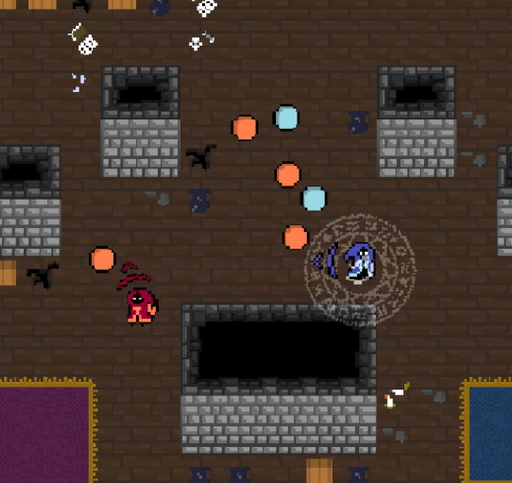
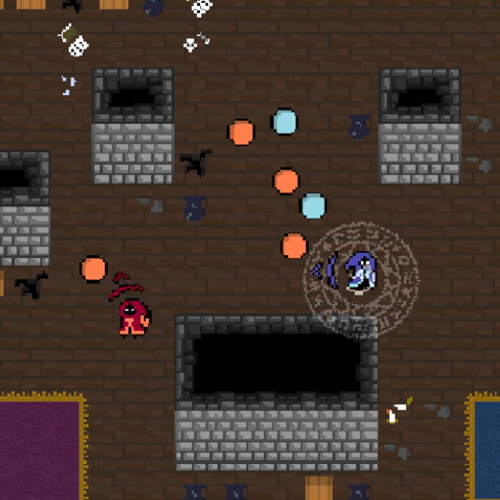
Add terraria site to projects

diff --git a/characters.html b/characters.html
@@ -10,8 +10,8 @@
         <link rel="icon" type="image/x-icon" href="assets/images/favicon.png">
 
         <meta charset="UTF-8">
-        <meta name="description" content="Mossy's [] webpage">
-        <meta name="keywords" content="Mossy">
+        <meta name="description" content="Mossy's characters webpage">
+        <meta name="keywords" content="Mossy Character DND Dungeons Dragons Tiefling Aarakocra Rakshasa">
         <meta name="author" content="Mossy Jimmerson">
     </head>
 
@@ -49,15 +49,15 @@
                                     <tr>
                                         <td>
                                             <img src="assets/images/characters/ecstasy/ecstasy portrait1.png" alt="Ecstasy's portrait" width="400px">
-                                            <figcaption>Art by <a href="https://oneinanillionartist.carrd.co">Nexanillion</a></figcaption>
+                                            <figcaption>Art by <a href="https://oneinanillionartist.carrd.co" target="_blank">Nexanillion</a></figcaption>
                                         </td>
                                         <td>
                                             <p>Ecstasy (he/they) is a transmasc tiefling with pitch black eyes, a trait shared amongst most Cepheus family members. He was the older of his identical twin sister, one twin is born with a sun birthmark (him), the other with a moon birthmark (his sister).</p>
                                             <p>The Cepheus family is cursed to always and only have 2 twins, each marked by their respective celestial body. The sun child is destined to inherit the power and fortune of the family, and for the past hundred generations, this has been the case.</p>
                                             <p>X was born with the sun birthmark, but never wanted to become the head of the family, so he ran away before his 18th birthday, met a hag, and traded his valuable name for fame and power.</p>
                                             <p>He took on his stage name, Ecstasy, and went on to become one of the most popular artists of his time, known throughout the planescape for his punk rock music.</p>
-                                            <a href="https://www.dndbeyond.com/characters/93174562/MhX0JE">Character Sheet</a>
-                                            <a href="https://open.spotify.com/playlist/7HiTo0TMkKBRKOUeqnxx58?si=54261d11539b4a75">Discography</a>
+                                            <a href="https://www.dndbeyond.com/characters/93174562/MhX0JE" target="_blank">Character Sheet</a>
+                                            <a href="https://open.spotify.com/playlist/7HiTo0TMkKBRKOUeqnxx58?si=54261d11539b4a75" target="_blank">Discography</a>
                                         </td>
                                     </tr>
                                     <tr>
@@ -68,7 +68,7 @@
                                                     <tr>
                                                         <td>
                                                             <img src="assets/images/characters/ecstasy/ecstasy fullbody1.png" alt="Fullbody art of Ecstasy" width="300px">
-                                                            <figcaption>Art by <a href="https://oneinanillionartist.carrd.co">Nexanillion</a></figcaption>
+                                                            <figcaption>Art by <a href="https://oneinanillionartist.carrd.co" target="_blank">Nexanillion</a></figcaption>
                                                         </td>
                                                         <td>
                                                             <p>This piece is a scene from the campaign, where X put on an impromptu concert to distract the enemies while the rest of the party planted bombs in their headquarters.</p>
@@ -78,7 +78,7 @@
                                                     <tr>
                                                         <td>
                                                             <p>This is art of what his guitar and magic look like. He has an electric wisp familiar powering it, so he doesn't need to carry around an amp or speakers to be heard.</p>
-                                                            <p>The guitar itself is a reflavored <a href="https://dnd5e.wikidot.com/wondrous-items:lyre-of-building">Lyre of Building</a>, which has been been used extensively in the DND campaign he's from.</p>
+                                                            <p>The guitar itself is a reflavored <a href="https://dnd5e.wikidot.com/wondrous-items:lyre-of-building" target="_blank">Lyre of Building</a>, which has been been used extensively in the DND campaign he's from, mostly to prevent damage to structures and weapons, excavate tunnels, and create statues of fallen party members.</p>
                                                             <p>The deal with the hag gave him incredibly potent fey magic, which is reflected in the pinks and blues of his magic. This magic manifests mostly in his bard class, he's specifically a college of glamour bard.</p>
                                                         </td>
                                                         <td>
@@ -102,13 +102,13 @@
                                     <tr>
                                         <td>
                                             <img src="assets/images/characters/nokia/nokia portrait1.png" alt="Nokia's portrait" width="400px">
-                                            <figcaption>Art by <a href="https://drag0natlas.tumblr.com">Drag0natlas</a></figcaption>
+                                            <figcaption>Art by <a href="https://drag0natlas.tumblr.com" target="_blank">Drag0natlas</a></figcaption>
                                         </td>
                                         <td>
                                             <p>Nokia (any/all) is an aarakocra (bird-person) bard/artificer that specializes in alchemy and acid/poison based magic. He's a mischevious grafiti artist and often uses his ability of flight to put art in hard to reach/clean places.</p>
                                             <p>He's a college of creation bard, with his signature paint-stained waistpiece, which is a stolen noble's silk. He also sports a celestial patterned cloth over his left shoulder to honor a fallen party member.</p>
                                             <p>Due to extensive exposure to loud noises/explosions, he develops hearing loss that eventually becomes full deafness. He later learns sign langauge and utilizes telepathy to communicate with others.</p>
-                                            <a href="https://www.dndbeyond.com/characters/52295570/n9qec6">Character Sheet</a>
+                                            <a href="https://www.dndbeyond.com/characters/52295570/n9qec6" target="_blank">Character Sheet</a>
                                         </td>
                                     </tr>
                                     <tr>
@@ -119,27 +119,27 @@
                                                     <tr>
                                                         <td>
                                                             <img src="assets/images/characters/nokia/nokia fullbody1.png" alt="Fullbody art of Nokia" width="300px">
-                                                            <figcaption>Art by <a href="https://drag0natlas.tumblr.com">Drag0natlas</a></figcaption>
+                                                            <figcaption>Art by <a href="https://drag0natlas.tumblr.com" target="_blank">Drag0natlas</a></figcaption>
                                                         </td>
                                                         <td>
                                                             <img src="assets/images/characters/nokia/noika fullbody2.png" alt="Fullbody art of Nokia" width="300px">
-                                                            <figcaption>Art by <a href="https://autumnrunss.carrd.co">AutumnRunss</a></figcaption>
+                                                            <figcaption>Art by <a href="https://autumnrunss.carrd.co" target="_blank">AutumnRunss</a></figcaption>
                                                         </td>
                                                     </tr>
                                                     <tr>
                                                         <td>
                                                             <img src="assets/images/characters/nokia/nokia sketch1.jpg" alt="Sketch of Nokia" width="300px">
-                                                            <figcaption>Art by <a href="https://autumnrunss.carrd.co">AutumnRunss</a></figcaption>
+                                                            <figcaption>Art by <a href="https://autumnrunss.carrd.co" target="_blank">AutumnRunss</a></figcaption>
                                                         </td>
                                                         <td>
                                                             <img src="assets/images/characters/nokia/nokia sketch2.jpg" alt="Sketch of Nokia" width="300px">
-                                                            <figcaption>Art by <a href="https://autumnrunss.carrd.co">AutumnRunss</a></figcaption>
+                                                            <figcaption>Art by <a href="https://autumnrunss.carrd.co" target="_blank">AutumnRunss</a></figcaption>
                                                         </td>
                                                     </tr>
                                                     <tr>
                                                         <td colspan="2">
                                                             <img src="assets/images/characters/nokia/nokia sketch3.jpg" alt="Sketch of Nokia" width="300px">
-                                                            <figcaption>Art by <a href="https://autumnrunss.carrd.co">AutumnRunss</a></figcaption>
+                                                            <figcaption>Art by <a href="https://autumnrunss.carrd.co" target="_blank">AutumnRunss</a></figcaption>
                                                         </td>
                                                     </tr>
                                                 </table>
@@ -158,15 +158,15 @@
                                     <tr>
                                         <td>
                                             <img src="assets/images/characters/rithil/rithil portrait1.png" alt="Rithil's portrait" width="400px">
-                                            <figcaption>Art by <a href="https://oneinanillionartist.carrd.co">Nexanillion</a></figcaption>
+                                            <figcaption>Art by <a href="https://oneinanillionartist.carrd.co" target="_blank">Nexanillion</a></figcaption>
                                         </td>
                                         <td>
                                             <p>Rithil (he/it) is a rakshasa (reflavored kalashtar) wizard/cleric who discovers the lost art of dunamancy, time and space magic. While he has a level in arcane cleric, most of his abilities are connected to his wizard class.</p>
                                             <p>He used to be a powerful fiend in hell, like other rakshasas, before he met his future wife, an adventurer. He chose to give up his fiendish powers to live a life with her on the material plane.</p>
                                             <p>This was all well and good for many years, as they worked as magic item merchants after her adventuring ended, up until she died from a cursed artifact. Terrified of losing her, Rithil promises to find a way to bring her back, to which her last words were "Don't, I will wait for you."</p>
                                             <p>Overcome with grief, he studies dunamancy to try and turn back time to bring her back from the dead, but it may not work...</p>
-                                            <a href="https://www.dndbeyond.com/characters/139288985/JTNDjr">Character Sheet</a>
-                                            <a href="https://open.spotify.com/playlist/2FvSOOThfjwaVkQHCHw1CB?si=2e5a1883e412400a">Playlist</a>
+                                            <a href="https://www.dndbeyond.com/characters/139288985/JTNDjr" target="_blank">Character Sheet</a>
+                                            <a href="https://open.spotify.com/playlist/2FvSOOThfjwaVkQHCHw1CB?si=2e5a1883e412400a" target="_blank">Playlist</a>
                                         </td>
                                     </tr>
                                     <tr>
@@ -177,25 +177,25 @@
                                                     <tr>
                                                         <td>
                                                             <img src="assets/images/characters/rithil/rithil halfbody1.png" alt="Halfbody art of Rithil" width="300px">
-                                                            <figcaption>Art by <a href="https://oneinanillionartist.carrd.co">Nexanillion</a></figcaption>
+                                                            <figcaption>Art by <a href="https://oneinanillionartist.carrd.co" target="_blank">Nexanillion</a></figcaption>
                                                         </td>
                                                         <td>
-                                                            <p>Rithil's species, <a href="https://www.dndbeyond.com/monsters/16990-rakshasa">rakshasa</a>, are man-eating monsterous fiends from The Nine Hells. He did use to be one of these monsters, even still having the backwards wrists, a trademark of their species.</p>
+                                                            <p>Rithil's species, <a href="https://www.dndbeyond.com/monsters/16990-rakshasa" target="_blank">rakshasa</a>, are man-eating monsterous fiends from The Nine Hells. He did used to be one of these monsters, even still having the backwards wrists, a trademark of their species.</p>
                                                             <details>
                                                                 <summary>Spoilers for Rithil's arc</summary>
-                                                                <p>Rithil's attempt to resurrect his wife fails, as her soul is not willing to return. This breaks him and sends him over the edge, he spirals and regresses back into his evil ways</p>
-                                                                <p>He eventually becomes the BBEG of a campaign of mine, where he kills the goddess of magic to release spellcasting upon the material plane, as the lack of magic users when his wife died led to not being able to save her.</p>
+                                                                <p>Rithil's attempt to resurrect his wife fails, as her soul is not willing to return, rather choosing to wait in the afterlife for him to join her. This sends him over the edge, he spirals and regresses back into his evil ways from before they met.</p>
+                                                                <p>He eventually becomes the BBEG of a campaign of mine, where he kills the goddess of magic to release spellcasting upon the material plane, as he believes the lack of magic users when his wife died is what led to not being able to save her.</p>
                                                             </details>
                                                         </td>
                                                     </tr>
                                                     <tr>
                                                         <td>
                                                             <img src="assets/images/characters/rithil/rithil bust1.png" alt="Bust art of Rithil" width="300px">
-                                                            <figcaption>Art by <a href="https://oneinanillionartist.carrd.co">Nexanillion</a></figcaption>
+                                                            <figcaption>Art by <a href="https://oneinanillionartist.carrd.co" target="_blank">Nexanillion</a></figcaption>
                                                         </td>
                                                         <td>
                                                             <img src="assets/images/characters/rithil/rithil fullbody1.png" alt="Fullbody art of Rithil" width="300px">
-                                                            <figcaption>Art by <a href="https://drag0natlas.tumblr.com">Drag0natlas</a></figcaption>
+                                                            <figcaption>Art by <a href="https://drag0natlas.tumblr.com" target="_blank">Drag0natlas</a></figcaption>
                                                         </td>
                                                     </tr>
                                                 </table>
@@ -212,7 +212,7 @@
             <footer>
                 <div class="footer">
                     <h3><i>And the universe said "I love you"</i></h3>
-                    <h5>Webpage made by Mossy :]</h5>
+                    <h5>Webpage made by Mossy/Raine :]</h5>
                 </div>
             </footer>
         </div>    

diff --git a/work.html b/work.html
@@ -37,7 +37,7 @@
                     <tr>
                         <td class="mainContentBig">
                             <div class="window">
-                                <h1>~ Previous Projects ~</h1>
+                                <h1>~ Projects ~</h1>
                             </div>
                         </td>
                     </tr>
@@ -48,10 +48,12 @@
                                 <table>
                                     <tr>
                                         <td>
-                                            <a href="https://totallyandrea0.itch.io/witches-duel"><img src="assets/images/projects/witches duel/wd thumbnail.png" alt="Witches' Duel in-game screenshot" width="400px"></a>
+                                            <a href="https://totallyandrea0.itch.io/witches-duel" target="_blank"><img src="assets/images/projects/witches duel/wd thumbnail.png" alt="Witches' Duel in-game screenshot" width="400px"></a>
                                         </td>
                                         <td>
-                                            <p>My first game jam project, a couch PVP, bullet hell, shooter game themed around witchcraft and alchemy, made for the CSU GDC Spring Sprang Sprung Game Jam. I was the main artist. <a href="https://totallyandrea0.itch.io/witches-duel">[Link]</a></p>
+                                            <p>My first game jam project, a couch PVP bullet hell game themed around witchcraft and alchemy, made for the CSU GDC Spring Sprang Sprung Game Jam. I was the main artist and created most of the pixel art.</p>
+                                            <p>The game was made in Godot, a free and open-source game engine, and my personal favorite (I hate Unity, it's just endless loading screens).</p>
+                                            <p>It supports up to 4 players in local or online multiplayer, designed to be a good party game. Players begin by picking a perk, inspired by the major arcana of the tarot. Some perks give you quicker cooldowns, extra health, and more. Players may then choose up to 4 spells that are bound to the right and left buttons/triggers on a standard gamepad. Each spell is based on a different alchemical material, such as sulfur, iron, lead, blood, etc. <a href="https://totallyandrea0.itch.io/witches-duel" target="_blank">[Link]</a></p>
                                         </td>
                                     </tr>
                                     <tr>
@@ -101,13 +103,32 @@
                             </div>
                         </td>
                     </tr>
+                    <tr>
+                        <td class="mainContentBig">
+                            <div class="window">
+                                <h2>Terraria NPC Housing Tracker</h2>
+                                <table>
+                                    <tr>
+                                        <td>
+                                            <a href="https://mossmom.github.io/Terraria-NPC-Tracker/" target="_blank"><img src="assets\images\projects\terraria npc tracker\tnpct thumbnail.png" alt="Terraria NPC Housing Tracker webpage screenshot" width="400px"></a>
+                                        </td>
+                                        <td>
+                                            <p>A quick tool I made to track NPC housing requirements in Terraria. Specifically to be used while designing worlds and building NPC housing. I myself always wished there were a tool to track which NPCs I've built houses for and which ones I haven't yet. The in-game NPC tracker only shows if they have spawned, not if you've built them a special house. This tool exists to fill that gap.</p>
+                                            <p>A school project, it was made with HTML, CSS, and JavaScript. The NPC data is stored in a JSON file, which the JavaScript fetches and parses to generate the checklist on the webpage, depending on the user's selected sources, such as the Calamity or Thorium mod.</p>
+                                            <p>Over 85 NPCs across 7 sources can be tracked by this tool. And I plan on working on it more in the future, its planned updates are listed at the bottom of the page, feel free to leave feedback on its GitHub page! <a href="https://mossmom.github.io/Terraria-NPC-Tracker/" target="_blank">[Link]</a></p>
+                                        </td>
+                                    </tr>
+                                </table>
+                            </div>
+                        </td>
+                    </tr>
                 </table>
             </div>
 
             <footer>
                 <div class="footer">
                     <h3><i>And the universe said "I love you"</i></h3>
-                    <h5>Webpage made by Mossy :]</h5>
+                    <h5>Webpage made by Mossy/Raine :]</h5>
                 </div>
             </footer>
         </div>    

diff --git a/index.html b/index.html
@@ -38,20 +38,24 @@
                         <td class="sideBar">
                             <div class="window">
                                 <h3>Site Changelog...</h3>
+                                <p>05/18/26 - Added Terraria NPC Housing Tracker to projects.</p>
                                 <p>02/16/26 - Website ported to GitHub</p>
                                 <p>02/09/26 - Identity, Projects, & Character pages done</p>
-                                <p>02/02/26 - Site created</p>
+                                <details>
+                                    <summary>Older changes</summary>
+                                    <p>02/02/26 - Site created</p>
+                                </details>
                             </div>
                             <div class="window">
                                 <h3>Social Media:</h3>
                                 <img src="assets/images/insta icon.png" alt="Instagram icon" width="20px" class="inlinePic">
-                                Instagram: <a href="https://www.instagram.com/mossmom5646/">mossmom5646</a>
+                                Instagram: <a href="https://www.instagram.com/mossmom5646/" target="_blank">mossmom5646</a>
                                 <br>
                                 <img src="assets/images/discord icon.png" alt="Discord icon" width="20px" class="inlinePic">
                                 Discord: mossmom
                                 <br>
                                 <img src="assets/images/spotify icon.png" alt="Spotify icon" width="20px" class="inlinePic">
-                                Spotify: <a href="https://open.spotify.com/user/some-person930?si=d514a0a1548c4d06">mossy</a>
+                                Spotify: <a href="https://open.spotify.com/user/some-person930?si=d514a0a1548c4d06" target="_blank">mossy</a>
                                 <br>
                                 <br>
                             </div>
@@ -60,7 +64,7 @@
                             <div class="window">
                             <h2>Welcome to my website!</h2>
                             <p>
-                                My name is Mossy <a href="identity.html">(she/they)</a> and I am currently a computer science undergraduate student, with a minor in American Sign Langauge.
+                                My name is Mossy/Raine <a href="identity.html">(she/they)</a> and I am a computer science graduate, with a minor in American Sign Language.
                                 <br><br>
                                 My hobbies include:
                                 <ul>
@@ -91,7 +95,7 @@
             <footer>
                 <div class="footer">
                     <h3><i>And the universe said "I love you"</i></h3>
-                    <h5>Webpage made by Mossy :]</h5>
+                    <h5>Webpage made by Mossy/Raine :]</h5>
                 </div>
             </footer>
         </div>    

diff --git a/assets/css/style.css b/assets/css/style.css
@@ -79,13 +79,9 @@ body {
 footer {
     text-align: center;
     margin-top: auto;
-    border-top: #3a431b;
+    border-top: 3px solid #3a431b;
     background-color: #0d130e;
     padding: 5px;
-    display: flex;
-    flex-direction: column;
-    background-size: auto;
-    flex-shrink: 0;
 }
 
 ul {

diff --git a/identity.html b/identity.html
@@ -62,7 +62,8 @@
                                         </tr>
                                     </tbody>
                                 </table>
-                                <p>I am part of the tech, furry, hellenistic pagan & tabletop/video gaming communities.</p>
+                                <p>I am part of the tech, furry, hellenistic pagan, & tabletop/video gaming communities.</p>
+                                <p><i>"Which name do you prefer?"</i><br>Either one! Pick your favorite, I respond to both.</p>
                             </div>
                         </div>
                         </td>
@@ -73,7 +74,7 @@
             <footer>
                 <div class="footer">
                     <h3><i>And the universe said "I love you"</i></h3>
-                    <h5>Webpage made by Mossy :]</h5>
+                    <h5>Webpage made by Mossy/Raine :]</h5>
                 </div>
             </footer>
         </div>    